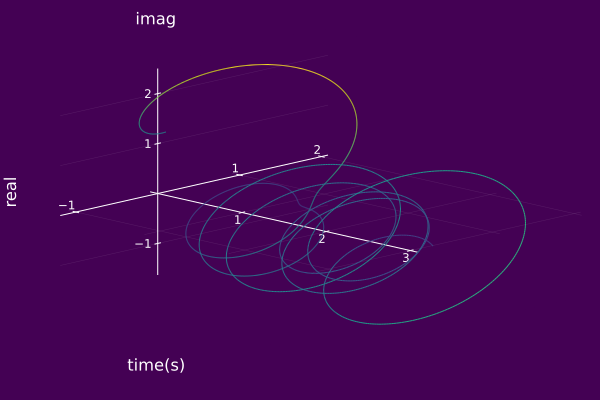
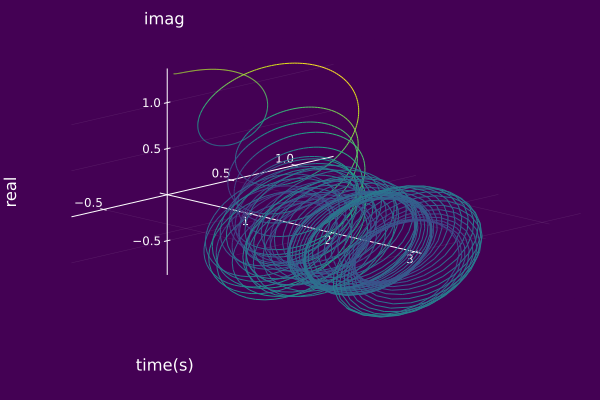
Models

diff --git a/docs/src/basics/models.md b/docs/src/basics/models.md
@@ -9,8 +9,8 @@ We can define an **AM--FM model** $z(t)$ (`AMFMmodel`) by calling `AMFMmodel()` 
 ```@example
 using ISA
 𝐶₀ = AMFMtriplet(t->exp(-t^2),t->2.0,0.0)
-𝐶₁ = AMFMtriplet(t->1.0,t->10*t,0.1)
-𝐶₂ = AMFMtriplet(t->0.8*cos(2t),t->10 + 7.5*sin(t),π)
+𝐶₁ = AMFMtriplet(t->0.5,t->100*t,0.1)
+𝐶₂ = AMFMtriplet(t->0.2*cos(2t),t->10 + 7.5*sin(t),π)
 𝑆 = compSet([𝐶₀,𝐶₁,𝐶₂])
 z = AMFMmodel(𝑆)
 ```
@@ -19,16 +19,16 @@ For convenience, we can also define an **AM--FM model** $z(t)$ (`AMFMmodel`) by 
 ```@example
 using ISA
 𝐶₀ = AMFMtriplet(t->exp(-t^2),t->2.0,0.0)
-𝐶₁ = AMFMtriplet(t->1.0,t->10*t,0.1)
-𝐶₂ = AMFMtriplet(t->0.8*cos(2t),t->10 + 7.5*sin(t),π)
+𝐶₁ = AMFMtriplet(t->0.5,t->100*t,0.1)
+𝐶₂ = AMFMtriplet(t->0.2*cos(2t),t->10 + 7.5*sin(t),π)
 z = AMFMmodel([𝐶₀,𝐶₁,𝐶₂])
 ```
 or a *vector of AMFM--components*
 ```@example
 using ISA
 ψ₀ = AMFMcomp(t->exp(-t^2),t->2.0,0.0)
-ψ₁ = AMFMcomp(t->1.0,t->10*t,0.1)
-ψ₂ = AMFMcomp(t->0.8*cos(2t),t->10 + 7.5*sin(t),π)
+ψ₁ = AMFMcomp(t->0.5,t->100*t,0.1)
+ψ₂ = AMFMcomp(t->0.2*cos(2t),t->10 + 7.5*sin(t),π)
 z = AMFMmodel([ψ₀,ψ₁,ψ₂])
 ```
 
@@ -37,8 +37,8 @@ Once an  **AM--FM model** $z(t)$ `AMFMmodel` is defined, it can be evaluated at 
 ```@example
 using ISA
 𝐶₀ = AMFMtriplet(t->exp(-t^2),t->2.0,0.0)
-𝐶₁ = AMFMtriplet(t->1.0,t->10*t,0.1)
-𝐶₂ = AMFMtriplet(t->0.8*cos(2t),t->10 + 7.5*sin(t),π)
+𝐶₁ = AMFMtriplet(t->0.5,t->100*t,0.1)
+𝐶₂ = AMFMtriplet(t->0.2*cos(2t),t->10 + 7.5*sin(t),π)
 𝑆 = compSet([𝐶₀,𝐶₁,𝐶₂])
 z = AMFMmodel(𝑆)
 t₀ = 2.0
@@ -48,8 +48,8 @@ or over a range of time instants
 ```@example
 using ISA
 𝐶₀ = AMFMtriplet(t->exp(-t^2),t->2.0,0.0)
-𝐶₁ = AMFMtriplet(t->1.0,t->10*t,0.1)
-𝐶₂ = AMFMtriplet(t->0.8*cos(2t),t->10 + 7.5*sin(t),π)
+𝐶₁ = AMFMtriplet(t->0.5,t->100*t,0.1)
+𝐶₂ = AMFMtriplet(t->0.2*cos(2t),t->10 + 7.5*sin(t),π)
 𝑆 = compSet([𝐶₀,𝐶₁,𝐶₂])
 z = AMFMmodel(𝑆)
 t = 0.0:0.25:1.0
@@ -61,8 +61,8 @@ We can visualize an **AM--FM model** $z(t)$ (`AMFMmodel`) by evoking a pre-defin
 ```@example
 using ISA, Plots
 𝐶₀ = AMFMtriplet(t->exp(-t^2),t->2.0,0.0)
-𝐶₁ = AMFMtriplet(t->1.0,t->10*t,0.1)
-𝐶₂ = AMFMtriplet(t->0.8*cos(2t),t->10 + 7.5*sin(t),π)
+𝐶₁ = AMFMtriplet(t->0.5,t->100*t,0.1)
+𝐶₂ = AMFMtriplet(t->0.2*cos(2t),t->10 + 7.5*sin(t),π)
 𝑆 = compSet([𝐶₀,𝐶₁,𝐶₂])
 z = AMFMmodel(𝑆)
 plot(z; timeaxis=0.0:0.001:3.0)
